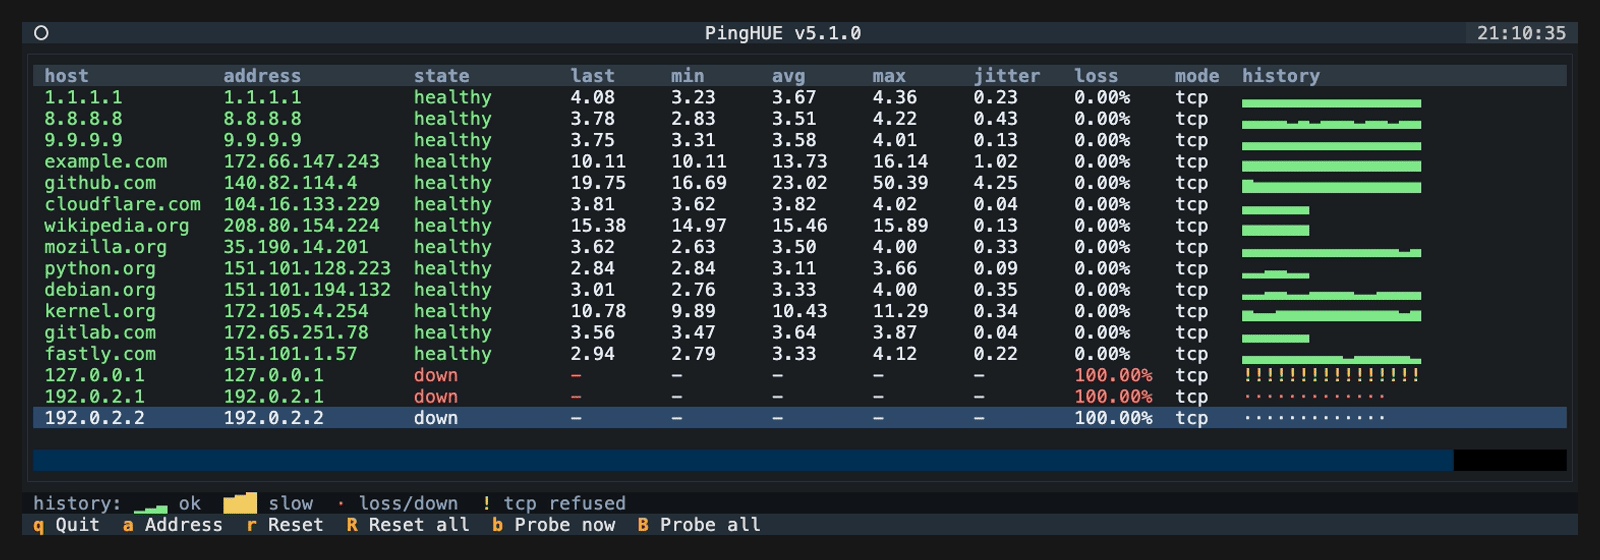
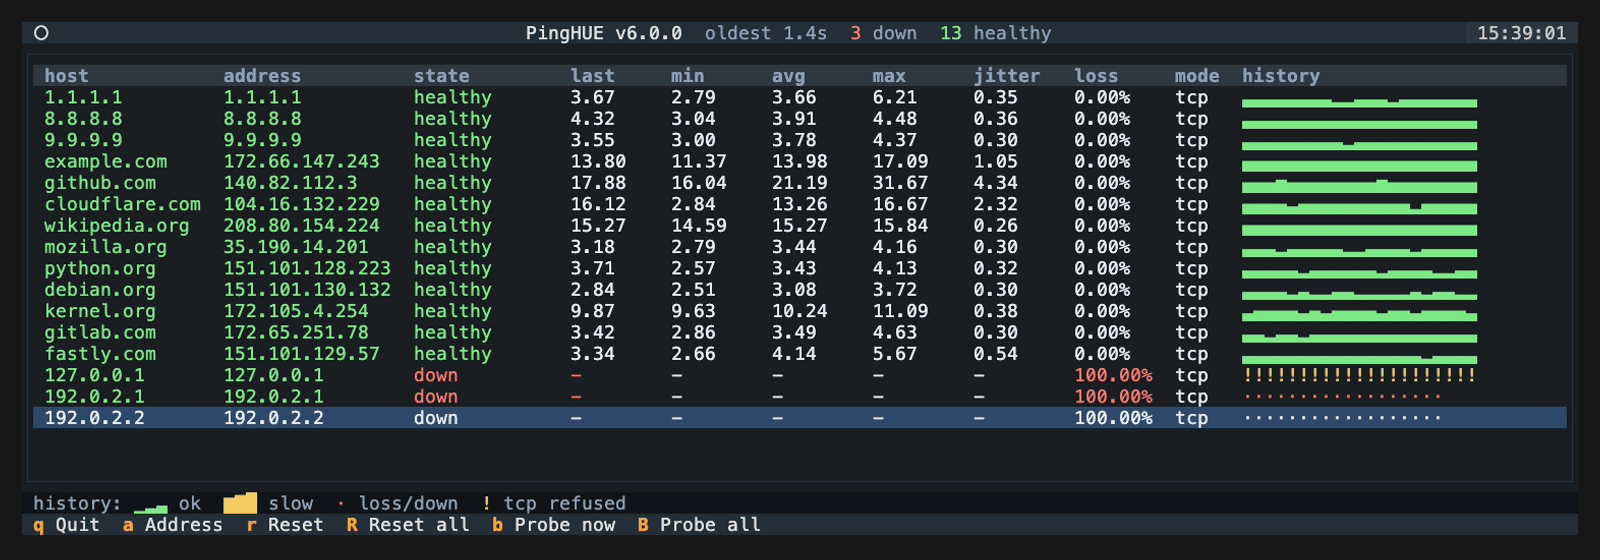
release: prepare v6.0.0
Bump the package, README, SECURITY.md, the example report, the site and
the social card to 6.0.0, date the changelog section, and regenerate the
README captures from the real 6.0.0 TUI.

The hero mirrors the 6.0.0 TUI: its title bar carries the fleet summary
(result age, then host counts per state, from 800px) and a reset host
shows pending. The Homebrew formula drops the icmplib resource and stages
the 6.0.0 sdist. The security report evidence is re-measured for 6.0.0.

diff --git a/docs/site.js b/docs/site.js
@@ -2,8 +2,9 @@
    The hero is the real TUI: same columns, states, glyph scale and keys as
    `pinghue` in a terminal, fed by one deterministic simulated run so every
    visitor sees the same night. The rules below mirror the Python sources:
-   BAR_BUCKETS (src/pinghue/history.py), SLOW_LATENCY_MS (app.py), and
-   classify_samples with the CLI defaults (models.py, cli.py). */
+   BAR_BUCKETS (src/pinghue/history.py), SLOW_LATENCY_MS (app.py),
+   classify_samples with the CLI defaults (models.py, cli.py), and the
+   header's fleet summary (SUMMARY_CATEGORIES, ui.py). */
 
 (() => {
   "use strict";
@@ -163,6 +164,23 @@
     return `last ${n} probes: ${parts.join(", ")}`;
   };
 
+  // ui.py fleet_summary_parts: the age of the oldest newest result, then
+  // host counts per state, problems first, states with no hosts left out.
+  // Every host here is probed each 1.0 s, so the oldest result is one
+  // interval old; a host with no result yet (pending) has no age.
+  const SUMMARY = [["down", "red"], ["intermittent", "amber"], ["pending", ""], ["healthy", "green"]];
+  const summaryParts = (states) => {
+    const parts = [];
+    if (states.some((state) => state !== "pending")) parts.push(["oldest 1.0s", ""]);
+    for (const [state, tone] of SUMMARY) {
+      const count = states.filter((s) => s === state).length;
+      if (!count) continue;
+      if (parts.length) parts.push(["  ", ""]);
+      parts.push([String(count), tone], [` ${state}`, ""]);
+    }
+    return parts;
+  };
+
   const fmt = (n) => (n === null ? "-" : n.toFixed(2));
   const fmtLoss = (n) => n.toFixed(2) + "%";
   const clockAt = (t) => {
@@ -175,7 +193,7 @@
   if (typeof module === "object" && module.exports) {
     module.exports = {
       BUCKETS, SLOW_MS, JITTER_THRESHOLD, FAIL_THRESHOLD, HOSTS, START, HISTORY, RUN_SECONDS,
-      buildRun, levelOf, glyphFor, toneFor, historyLabel, fmt, fmtLoss, clockAt,
+      SUMMARY, buildRun, levelOf, glyphFor, toneFor, historyLabel, summaryParts, fmt, fmtLoss, clockAt,
     };
     return;
   }
@@ -317,6 +335,7 @@
   const term = doc.querySelector("[data-term]");
   const tbody = doc.querySelector("[data-rows]");
   const clock = doc.querySelector("[data-clock]");
+  const summary = doc.querySelector("[data-summary]");
   const note = doc.querySelector("[data-term-note]");
   const pauseBtn = doc.querySelector("[data-pause]");
   const n = HOSTS.length;
@@ -348,17 +367,35 @@
     bars.setAttribute("aria-label", history.length ? historyLabel(history) : "no probes yet");
   };
 
+  // The counts change a few times an hour; rebuild the summary only then.
+  let summaryShown = summary ? summary.textContent : "";
+  const paintSummary = (states) => {
+    const parts = summaryParts(states);
+    const text = parts.map(([part]) => part).join("");
+    if (!summary || text === summaryShown) return;
+    summaryShown = text;
+    summary.replaceChildren(...parts.map(([part, tone]) => {
+      if (!tone) return doc.createTextNode(part);
+      const count = doc.createElement("span");
+      count.className = `t-${tone}`;
+      count.textContent = part;
+      return count;
+    }));
+  };
+
   const paint = () => {
     if (!tbody) return;
+    const states = [];
     Array.from(tbody.rows).forEach((tr, i) => {
       const cells = tr.cells;
       const tk = tickOf(i);
       cells[1].textContent = showAddress ? HOSTS[i][1] : "";
       tr.classList.toggle("is-cursor", term && term.classList.contains("is-engaged") && i === cursor);
       if (since[i] > tk) {
-        // app.py: a reset target shows "resolving" until its next probe lands
-        cells[2].textContent = "resolving";
-        cells[2].className = "s-resolving";
+        // ui.py: a reset target shows "pending" until its next probe lands
+        states.push("pending");
+        cells[2].textContent = "pending";
+        cells[2].className = "s-pending";
         for (let k = 3; k <= 7; k++) {
           cells[k].textContent = "-";
           cells[k].className = "";
@@ -369,6 +406,7 @@
         return;
       }
       const row = run.rowAt(i, tk, since[i]);
+      states.push(row.state);
       cells[2].textContent = row.state;
       cells[2].className = `s-${row.state}`;
       const nums = [["last", row.last], ["min", row.min], ["avg", row.avg], ["max", row.max], ["jitter", row.jitter]];
@@ -380,6 +418,7 @@
       cells[8].className = row.tones.loss ? `t-${row.tones.loss}` : "";
       paintBars(cells[10], row.history);
     });
+    paintSummary(states);
     if (clock) clock.textContent = clockAt(elapsed + START);
   };
 

diff --git a/docs/site.css b/docs/site.css
@@ -395,7 +395,7 @@ kbd {
 
 .term-bar {
   display: grid;
-  grid-template-columns: 1fr auto 1fr;
+  grid-template-columns: minmax(max-content, 1fr) minmax(0, auto) minmax(max-content, 1fr);
   align-items: center;
   height: max(40px, calc(47 * var(--u)));
   padding: 0 max(12px, calc(20 * var(--u))) 0 max(14px, calc(21 * var(--u)));
@@ -426,6 +426,33 @@ kbd {
 
 .dots i:nth-child(3) {
   background: #28c840;
+}
+
+/* The fleet summary follows the title like the TUI header's. Healthy, the
+   bulk of most fleets, comes last, so a bar too narrow for all of it drops it
+   first; below 800px the bar keeps only the title. */
+.term-head {
+  min-width: 0;
+  overflow: hidden;
+  white-space: pre;
+}
+
+.term-summary {
+  margin-left: 2ch;
+  color: var(--tui-muted);
+  font-variant-numeric: tabular-nums;
+}
+
+@media (min-width: 800px) {
+  .term-bar {
+    column-gap: 2ch;
+  }
+}
+
+@media (max-width: 799px) {
+  .term-summary {
+    display: none;
+  }
 }
 
 .term-end {
@@ -495,7 +522,7 @@ kbd {
   background: rgb(88 166 255 / 0.22);
 }
 
-.s-resolving {
+.s-pending {
   color: var(--tui-muted);
 }
 
@@ -567,6 +594,7 @@ kbd {
 .s-healthy { color: var(--green); }
 .s-intermittent { color: var(--amber); }
 .s-down { color: var(--red); }
+.t-green { color: var(--green); }
 .t-amber { color: var(--amber); }
 .t-red { color: var(--red); }
 

diff --git a/docs/index.html b/docs/index.html
@@ -81,7 +81,7 @@
       <div class="term-window" tabindex="0" data-term>
       <div class="term-bar">
         <span class="dots" aria-hidden="true"><i></i><i></i><i></i></span>
-        <span class="term-title" aria-hidden="true">PingHUE v5.1.0</span>
+        <span class="term-head"><span class="term-title" aria-hidden="true">PingHUE v6.0.0</span><span class="term-summary" aria-hidden="true" data-summary>oldest 1.0s  <span class="t-red">1</span> down  <span class="t-amber">1</span> intermittent  <span class="t-green">4</span> healthy</span></span>
         <span class="term-end">
           <span class="term-clock" aria-hidden="true" data-clock>02:31:04</span>
           <button class="term-pause" type="button" aria-label="Pause the live demo" data-pause hidden>
@@ -239,7 +239,7 @@
     --output maintenance.json
 <span class="jp">{</span>
   <span class="jk">"schema_version"</span>: <span class="jn">1</span>,
-  <span class="jk">"pinghue_version"</span>: <span class="js">"5.1.0"</span>,
+  <span class="jk">"pinghue_version"</span>: <span class="js">"6.0.0"</span>,
   <span class="jk">"run"</span>: {
     <span class="jk">"started_at"</span>: <span class="js">"2026-10-06T02:28:08.412Z"</span>,
     <span class="jk">"ended_at"</span>: <span class="js">"2026-10-06T02:31:08.418Z"</span>,

diff --git a/scripts/site-social-card.html b/scripts/site-social-card.html
@@ -48,7 +48,7 @@
     <h1>Every host. One live table.</h1>
     <p>Concurrent ICMP and TCP ping monitor for maintenance windows.</p>
     <div class="term">
-      <div class="bar"><span class="dots"><i></i><i></i><i></i></span><span>PingHUE v5.1.0</span><span class="clock">02:31:04</span></div>
+      <div class="bar"><span class="dots"><i></i><i></i><i></i></span><span>PingHUE v6.0.0</span><span class="clock">02:31:04</span></div>
       <table>
         <colgroup><col style="width:17%"><col style="width:16%"><col style="width:15%"><col style="width:9%"><col style="width:9%"><col style="width:9%"><col style="width:9%"><col></colgroup>
         <thead><tr><th>host</th><th>address</th><th>state</th><th>last</th><th>avg</th><th>max</th><th>loss</th><th>history</th></tr></thead>

diff --git a/docs/404.html b/docs/404.html
@@ -19,7 +19,7 @@
   <h1>404: no reply.</h1>
   <p class="lost-lede">This page missed three probes in a row. pinghue would mark it down.</p>
   <figure class="window lost-window">
-    <div class="window-bar" aria-hidden="true"><span class="dots"><i></i><i></i><i></i></span><span class="window-title">PingHUE v5.1.0</span></div>
+    <div class="window-bar" aria-hidden="true"><span class="dots"><i></i><i></i><i></i></span><span class="window-title">PingHUE v6.0.0</span></div>
     <div class="window-body">
       <table class="tui tui-lost">
         <thead><tr><th scope="col">host</th><th scope="col">state</th><th scope="col">last</th><th scope="col">loss</th><th scope="col">history</th></tr></thead>

diff --git a/packaging/homebrew/pinghue.rb b/packaging/homebrew/pinghue.rb
@@ -10,17 +10,12 @@ class Pinghue < Formula
 
   desc "Colored, concurrent ICMP/TCP ping monitor for the terminal"
   homepage "https://github.com/inxbit/pinghue"
-  url "https://files.pythonhosted.org/packages/4a/68/ce501359462234bac4c2733d5bf66e26b9b2bd6999052a647c953fd828fe/pinghue-5.1.0.tar.gz"
[1 lines of base64/hex data omitted]
+  url "https://files.pythonhosted.org/packages/source/p/pinghue/pinghue-6.0.0.tar.gz"
[1 lines of base64/hex data omitted]
   license "MIT"
   head "https://github.com/inxbit/pinghue.git", branch: "main"
 
   depends_on "python@3.13"
-
-  resource "icmplib" do
-    url "https://files.pythonhosted.org/packages/6d/78/ca07444be85ec718d4a7617f43fdb5b4eaae40bc15a04a5c888b64f3e35f/icmplib-3.0.4.tar.gz"
[1 lines of base64/hex data omitted]
-  end
 
   resource "linkify-it-py" do
     url "https://files.pythonhosted.org/packages/2e/c9/06ea13676ef354f0af6169587ae292d3e2406e212876a413bf9eece4eb23/linkify_it_py-2.1.0.tar.gz"

diff --git a/security-best-practices-report.md b/security-best-practices-report.md
@@ -2,7 +2,7 @@
 
 ## Status
 
-Review date: 2026-07-11; verification evidence refreshed for 5.1.0 on 2026-08-18
+Review date: 2026-07-11; verification evidence refreshed for 6.0.0 on 2026-10-22
 
 No open critical or high-severity vulnerability was found in the local
 CLI/runtime code. The reviewed implementation is a local, unprivileged
@@ -152,22 +152,28 @@ requires the next major release; it must not ship as a patch or minor version.
 
 ## Verification evidence
 
-Refreshed for the 5.1.0 release candidate on 2026-08-18 (the 5.0.0 evidence
+Refreshed for the 6.0.0 release candidate on 2026-10-22 (the 5.1.0 evidence
 this section previously recorded is superseded):
 
-- Full tests outside the sandbox: 333 passed; localhost TCP and Unix-socket
-  cases executed; total branch-aware coverage was 88.79% against the 85% floor
-  (raised from 80% in 5.1.0). The same suite passed under CPython 3.14.7.
+- Full tests: 697 passed and 8 skipped (Linux-only kernel features, a
+  Linux-only pty hangup, and a root-only ownership change) under CPython
+  3.12.15, with total branch-aware coverage of 93.93% against the 85% floor;
+  localhost TCP and Unix-socket cases executed. The same suite
+  passed under CPython 3.14.9.
 - Ruff: `ruff check` and `ruff format --check` passed for all files.
-- Mypy strict mode: no issues across 14 runtime modules plus the sdist
+- Mypy strict mode: no issues across 16 runtime modules plus the sdist
   normalizer script.
 - Python bytecode compilation: all runtime and script modules passed.
-- Static site contract: 25 Node tests passed. The 5.1.0 site change is limited
-  to the version string in the JSON example.
-- Semgrep explicit Python, security-audit, and secrets rules: 285 rules run,
-  0 findings across the 70 tracked files.
-- Bandit recursive runtime/script scan: 0 findings.
-- Gitleaks working-tree and 134-commit history scans: 0 leaks.
+- Static site contract: 26 Node tests passed. The 6.0.0 site change adds the
+  TUI's fleet summary to the hero title bar, shows a reset host as `pending`
+  like the TUI, and updates the version strings.
+- Semgrep 1.182.0 Python, security-audit, and secrets rule packs: 0 findings
+  across 85 scanned files.
+- Bandit 1.9.4 recursive runtime/script scan: one low-severity B311 note for
+  the `random.uniform` jitter on DNS retry delays, which is not a security
+  value; ICMP identifiers, sequence numbers, and reply tokens use
+  `os.urandom`. No medium or high findings.
+- Gitleaks 8.30.1 working-tree and 131-commit history scans: 0 leaks.
 - `pip-audit --strict --disable-pip`: no known vulnerabilities in
   `requirements.txt`, `requirements-build.txt`, or
   `requirements-audit.txt`.
@@ -175,24 +181,28 @@ this section previously recorded is superseded):
   `--require-hashes` entry.
 - Two builds from independent source trees with different mtimes produced byte-identical
   normalized sdists and byte-identical wheels with `SOURCE_DATE_EPOCH=0`.
-- The final normalized sdist and wheel passed `twine check`; all 244 tests
-  shipped in the unpacked sdist passed; fresh wheel and sdist installs both
-  reported `pinghue 5.1.0` through the console-script entry point and
-  completed the localhost TCP smoke test.
+- The final normalized sdist and wheel passed `twine check`; all 604 tests
+  shipped in the unpacked sdist passed (8 skipped as above); fresh wheel and
+  sdist installs both reported `pinghue 6.0.0` through the console-script
+  entry point and completed the localhost TCP smoke test.
 - ShellCheck and Bash syntax checks passed for shell scripts; Homebrew formula
   Ruby syntax passed.
 - The administration-readable hosted-hardening check passed against the
-  tracked baseline, with the Python 3.14 required checks pending the
-  maintainer-run apply (#113).
+  tracked baseline, including the Python 3.14 required checks.
 
 ## Release decision
 
-The breaking target cap shipped in 5.0.0 and BP-001 is closed. 5.1.0 is a
-compatible release (unified probe scheduler, console-script entry point,
-Python 3.14, CI gates); no new finding was raised. The local candidate passed
-the security, QA, deterministic-artifact, installed-artifact, and
-staged-formula gates. Publishing remains gated on release-PR review and
-exact-head CI.
+The breaking target cap shipped in 5.0.0 and BP-001 is closed. 6.0.0 is a
+major release: `--output` refuses FIFOs and `--overwrite` targets that another
+local user controls, host files split lines only at `\n`, `\r\n`, or a lone
+`\r`, and `./-` names a file. Those changes invoke the documented security
+exception to the deprecation window. The release also closes DNS-sinkhole
+answers being probed as healthy, predictable ICMP sequence numbers, unescaped
+OS-supplied text in `--check`, stderr-bound output reaching stdout, and an
+inline expression in a workflow `run:` step; no new finding was raised. The
+local candidate passed the security, QA, deterministic-artifact,
+installed-artifact, and staged-formula gates. Publishing remains gated on
+release-PR review and exact-head CI.
 
 Revisit this report if PingHue gains a listener, privileged wrapper, remote
 inventory source, credential handling, plugin execution, subprocess probes, a

diff --git a/DESIGN.md b/DESIGN.md
@@ -247,7 +247,7 @@ Mono caps on the Key Ground with a Strong Hairline border. In the hero footer th
 Window Ground, a Window Bar with three traffic-light dots and a centered mono title, 1px Terminal Line borders, 12px corners, the window drop. Content is either a mini TUI table or a `pre` of commands and JSON.
 
 ### The Hero Terminal (signature)
-The real TUI layout at 1472u: bar with dots, `PingHUE v{version}` title, a tabular clock and a pause button; the ten-column table plus history bars; the key footer masked to fade out; a muted caption. The run is deterministic (`docs/site.js`), loops after its simulated hour, starts paused under reduced motion, and accepts q, a, r, R, b, B and the arrow keys when focused. The no-JS rows in `docs/index.html` are generated from the same run.
+The real TUI layout at 1472u: bar with dots, `PingHUE v{version}` title followed by the TUI's fleet summary (result age, then host counts per state; from 800px), a tabular clock and a pause button; the ten-column table plus history bars; the key footer masked to fade out; a muted caption. The run is deterministic (`docs/site.js`), loops after its simulated hour, starts paused under reduced motion, and accepts q, a, r, R, b, B and the arrow keys when focused. The no-JS rows and fleet summary in `docs/index.html` are generated from the same run.
 
 ### Latency Scale
 A ten-cell ruler of the eight glyph heights plus the fail and refused marks, each with a mono band label, and a slider lab that maps a latency to its glyph live. Cells reflow 10, 5, then 2 per row.

diff --git a/CHANGELOG.md b/CHANGELOG.md
@@ -6,6 +6,8 @@ Starting with `1.0.0`, this project follows semantic versioning. CLI flags and J
 
 ## [Unreleased]
 
+## 6.0.0 - 2026-10-22
+
 ### Breaking
 
 - `--output` now refuses an existing FIFO that another local user could read the report from: one owned by another user and, in the default `private` output mode, one whose permissions let group or other users open it, such as the `0644` FIFO that `mkfifo` creates under the usual umask `022`. `--overwrite` now refuses an existing regular file owned by another user. Both refusals exit with status `1` and write nothing, and both apply when PingHue runs as root (for example `sudo pinghue --output ~/report.json --overwrite`). Run as the owner of the path, create the FIFO with `mkfifo -m 600` (or pass `--output-mode umask` to accept its permissions as they are), or write a new report instead. PingHue checks a FIFO's permissions when it opens the FIFO, and a `chmod` does not revoke a reader that opened the FIFO, or was waiting to open it, while group or other users had access, so remove a FIFO that was ever open to them and recreate it with `mkfifo -m 600` instead of changing its mode.

diff --git a/README.md b/README.md
@@ -22,7 +22,7 @@
 
 `pinghue` is a colored, concurrent ICMP/TCP ping monitor for maintenance windows. It gives operators a dense terminal view for many hosts at once and can also write structured JSON for reports, cron jobs, and CI checks.
 
-Current version: `5.1.0`. The command-line interface and JSON output are stable public interfaces. JSON output uses `schema_version: 1`; breaking JSON changes require a new schema version.
+Current version: `6.0.0`. The command-line interface and JSON output are stable public interfaces. JSON output uses `schema_version: 1`; breaking JSON changes require a new schema version.
 
 <p align="center">
   <img src="https://raw.githubusercontent.com/inxbit/pinghue/main/docs/assets/pinghue-demo.gif" alt="real pinghue terminal recording: healthy hosts with green history bars, a TCP-refused host with amber markers, and unreachable hosts down in red" width="920">

diff --git a/SECURITY.md b/SECURITY.md
@@ -6,8 +6,8 @@ Security fixes are provided for the latest stable release line.
 
 | Version | Supported |
 | --- | --- |
-| `5.x` | Yes |
-| `<5.0` | No |
+| `6.x` | Yes |
+| `<6.0` | No |
 
 ## Reporting a Vulnerability
 
